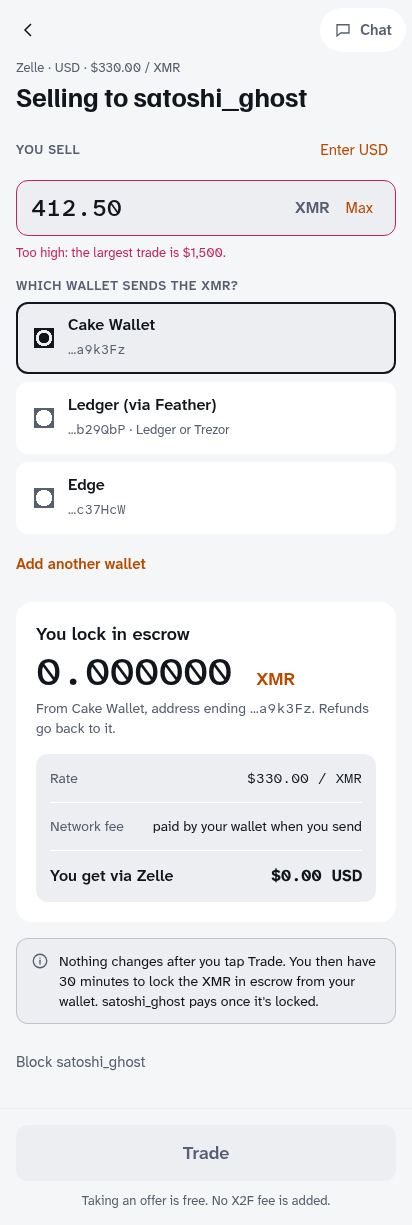
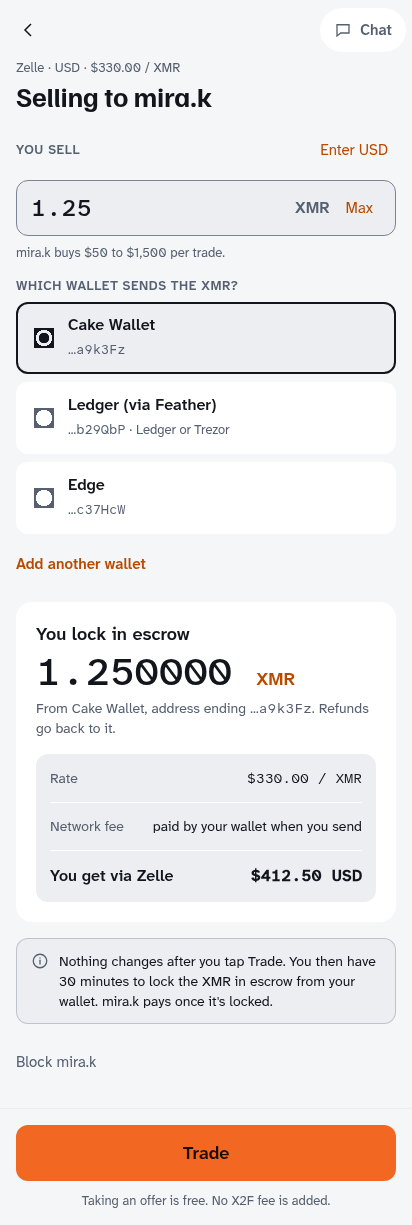
docs(design-screens): reshoot offers v2 66-72 after review round 1 (shot 71: mira.k's buy ad at 1.25 XMR)

diff --git a/apps/web/e2e/design-shots.spec.ts b/apps/web/e2e/design-shots.spec.ts
@@ -1024,10 +1024,12 @@ test("71 the seller quote (mira.k's buy ad), a wallet picked", async ({ page }) 
     const side = new URL(r.request().url()).searchParams.get('side');
     return json(side === 'buy' ? [SELL_QUOTE_OFFER] : [])(r);
   });
-  await page.goto(`/sell/${B.method.id}/${SELL_QUOTE_OFFER.id}?currency=${B.currency}&amount=${B.amount}`);
+  // The seller quote starts in XMR: 1.25 XMR is the board's $412.50 at $330.00.
+  await page.goto(`/sell/${B.method.id}/${SELL_QUOTE_OFFER.id}?currency=${B.currency}&amount=1.25`);
   await page.getByRole('radio', { name: /Cake Wallet/ }).check();
   await expect(page.locator('section[aria-label="What you get"]')).toBeVisible();
   await expect(page.locator('.x2f-quote__title')).toContainText('mira.k');
+  await expect(page.locator('section[aria-label="What you get"]')).toContainText('$412.50 USD');
   await shot(page, '71-sellquote', { fullPage: true });
 });
 
